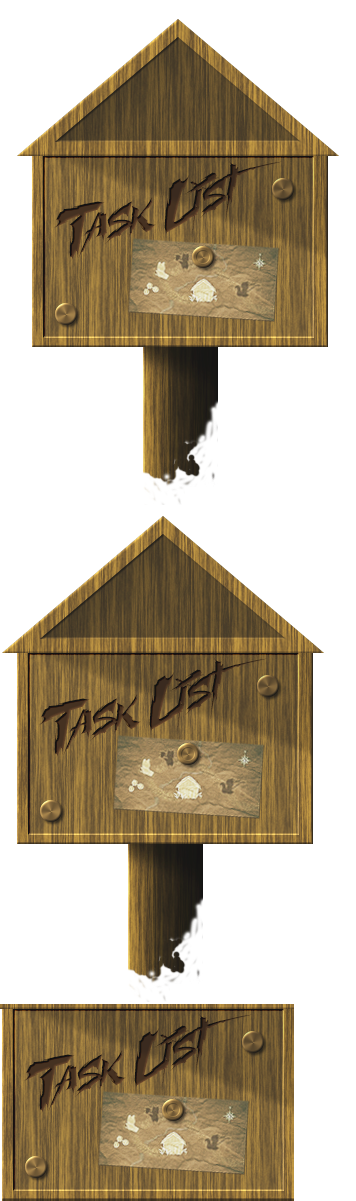
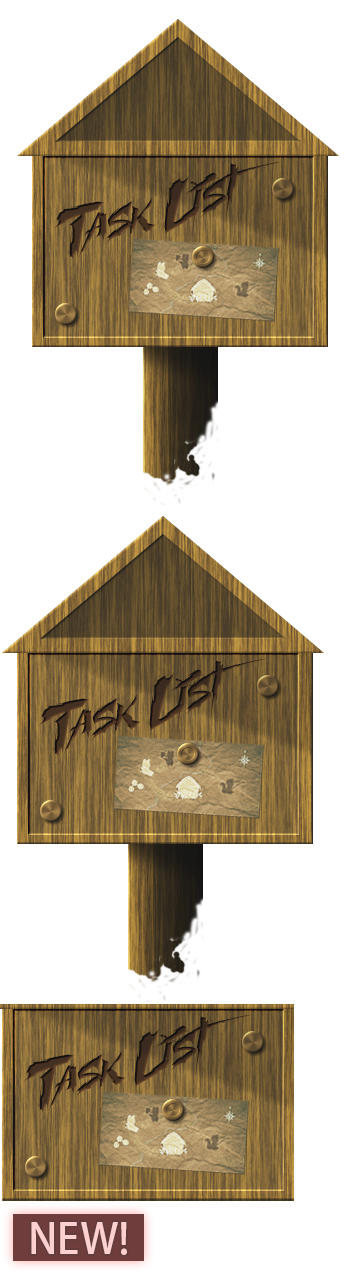
Add HomePage NewIcon

diff --git a/javascript/math_game/js/HomeMenu.js b/javascript/math_game/js/HomeMenu.js
@@ -152,10 +152,12 @@ demo.HomeMenu.prototype = {
         //TaskBoardBtn----------------------------------------------------------------------------------------------------------------
         TaskBoard = game.add.sprite(0,100,'TaskBoard','TaskBoard.png');
         
+        
         TaskBoardHover = game.add.sprite(0,100,'TaskBoard','TaskBoardHover.png');
         TaskBoardHoverTween = game.add.tween(TaskBoardHover).to({alpha:0.2},500,'Linear',true,0,false,true).loop(true);
         //TaskBoardHoverTween.pause();
         //TaskBoardHover.alpha = 0;
+        
         
         TaskBoardBtnArea = game.add.sprite(1272,507,'TaskBoard','TaskBoardBtnArea.png');
         TaskBoardBtnArea.events.onInputUp.add(TaskBoardBtnAreaUp, this);
@@ -163,7 +165,16 @@ demo.HomeMenu.prototype = {
         TaskBoardBtnArea.events.onInputOut.add(TaskBoardBtnAreaOut, this);
         TaskBoardBtnArea.inputEnabled = false;
         TaskBoardBtnArea.alpha = 0;
-                
+        
+        
+        TaskBoardNewIcon = game.add.sprite(0,100,'TaskBoard','NewIcon.png');
+        if( LevelState.LevelMapCount == 0 ){
+           TaskBoardNewIconTween = game.add.tween(TaskBoardNewIcon).to({alpha:0.2},500,'Linear',true,0,false,true).loop(true);                
+        }else{
+            TaskBoardNewIcon.alpha = 0;
+        }
+        
+        
         //btn---------------------------------------------------------------------------------------------------------------------
         JunyiIconBtn = game.add.sprite(1300,800,'JunyiIconBtn');
         JunyiIconBtn.alpha = 1;
@@ -210,9 +221,10 @@ demo.HomeMenu.prototype = {
     update: function() {}    
 }
 function TaskBoardBtnAreaUp(){
-
+    
     TaskBoardHoverTween.pause();    
     TaskBoardHover.alpha = 0;
+    
     ExitHomePage();
 }
 function TaskBoardBtnAreaOver(){
@@ -237,6 +249,7 @@ function JunyiIconBtnDown(){
     
 }
 function ExitHomePage(){
+    LevelState.LevelMapCount++;
     game.add.tween(game_menu_music).to({volume:0},1000,'Quad.easeOut',true,0); 
  
     BlackClosingTween1 = game.add.tween(blackBG_opening).to({alpha:1},1000,'Quad.easeOut',true,0); 

diff --git a/javascript/math_game/js/AxPage.js b/javascript/math_game/js/AxPage.js
@@ -301,6 +301,17 @@ function BoardBackBtnOut(){
 }
 //----------------------------------------------------------------------------------------------------------------------------------------------
 function ExitAxPage(){
+    AxPagePlayVolumeMute = game.add.tween(AxPagePlay).to({volume:0},500,'Linear',true,0);
+    AxPagePlayVolumeMute.onComplete.add(function(){
+        AxPagePlay.stop();
+    },this);
+    
+    NumSum.destroy();
+    NumAdd1.destroy();
+    NumAdd2.destroy();
+    for(let i = 0;i<5;i++){
+        answerNum[i].destroy();
+    }    
     
     AxBarX = AxBarSharp.x;
     AxBarLevel2X = AxBarSharpLevel2.x;    
@@ -313,10 +324,10 @@ function ExitAxPage(){
 function FoxSittingDown(){
     ArrowSheet.animations.stop();
     ArrowSheet.alpha = 0;     
-    ExitAxPageTextBoardTween.pause();
-    ExitAxPageTextBoard.alpha = 0;
+    //ExitAxPageTextBoardTween.pause();
+    //ExitAxPageTextBoard.alpha = 0;
     FoxSitting.inputEnabled = false;
-    ExitAxPageBtnArea.inputEnabled = false;
+    //ExitAxPageBtnArea.inputEnabled = false;
     StartSharpening();
     /*
     game.add.tween(AxPageBackBtn.scale).to({x:1,y:1},500,Phaser.Easing.Back.Out,true,0);
@@ -427,10 +438,10 @@ function StopSharpening(){
     AxPagePlay.stop();
     Sharpening = false;
     //AxFX.stop();
-    ExitAxPageBtnArea.inputEnabled = true;
-    ExitAxPageBtnArea.input.useHandCursor = true; 
-    ExitAxPageTextBoardTween.resume();
-    ExitAxPageTextBoard.alpha = 1;
+    //ExitAxPageBtnArea.inputEnabled = true;
+    //ExitAxPageBtnArea.input.useHandCursor = true; 
+   // ExitAxPageTextBoardTween.resume();
+    //ExitAxPageTextBoard.alpha = 1;
     game.add.tween(StopSharpenText).to({y:0},500,'Quad.easeOut',true,0); 
     FoxWithAx.alpha = 0;
     FoxWithAx.animations.stop();

diff --git a/javascript/math_game/js/LoggingPage.js b/javascript/math_game/js/LoggingPage.js
@@ -397,6 +397,18 @@ function FoxLoggingPageBtnOut(){
 }
 
 function ExitLoggingPage(){
+    NumSum.destroy();
+    NumAdd1.destroy();
+    NumAdd2.destroy();
+    for(let i = 0;i<5;i++){
+        answerNum[i].destroy();
+    }    
+    
+    LoggingBGVolumeMute = game.add.tween(LoggingBG).to({volume:0},500,'Linear',true,0);
+    LoggingBGVolumeMute.onComplete.add(function(){
+        LoggingBG.stop();
+    },this);
+    
     AxBarX = AxBarSharp.x;
     AxBarLevel2X = AxBarSharpLevel2.x;    
     TreeBloodBarX = TreeBloodBar.x;
@@ -424,7 +436,7 @@ function StartLogging(){
     LoggingPageBackBtn.inputEnabled = false;
     LoggingPageStartBtn.inputEnabled = false;
     
-    LoggingPageExitBtnArea.inputEnabled = false;
+    //LoggingPageExitBtnArea.inputEnabled = false;
     LoggingPageExitTextTween.pause();
     LoggingPageExitText.alpha = 0;
     
@@ -511,8 +523,8 @@ function StopLogging(){
         LoggingBG.stop();
     },this);
 
-    LoggingPageExitBtnArea.inputEnabled = true;
-    LoggingPageExitBtnArea.input.useHandCursor = true;    
+    //LoggingPageExitBtnArea.inputEnabled = true;
+    //LoggingPageExitBtnArea.input.useHandCursor = true;    
     LoggingPageExitTextTween.resume();
     LoggingPageExitText.alpha = 1;
     

diff --git a/javascript/math_game/js/LevelMap.js b/javascript/math_game/js/LevelMap.js
@@ -4,6 +4,8 @@ var FishMedalShowUp = false;
 var BackPackFish = [];
 
 var LevelState = { 
+    LevelMapCount:0,
+    
     CheckNewMedal:false,
     
     AxPageCount:0,
